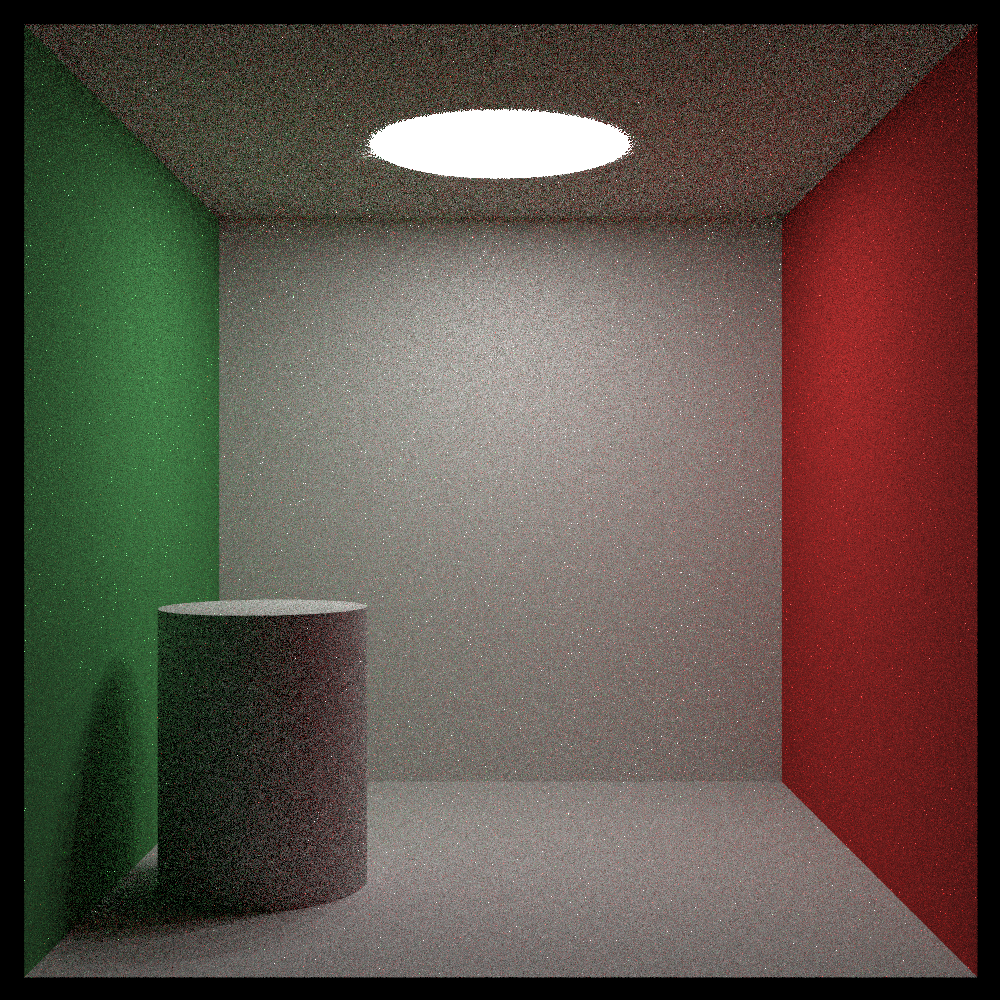
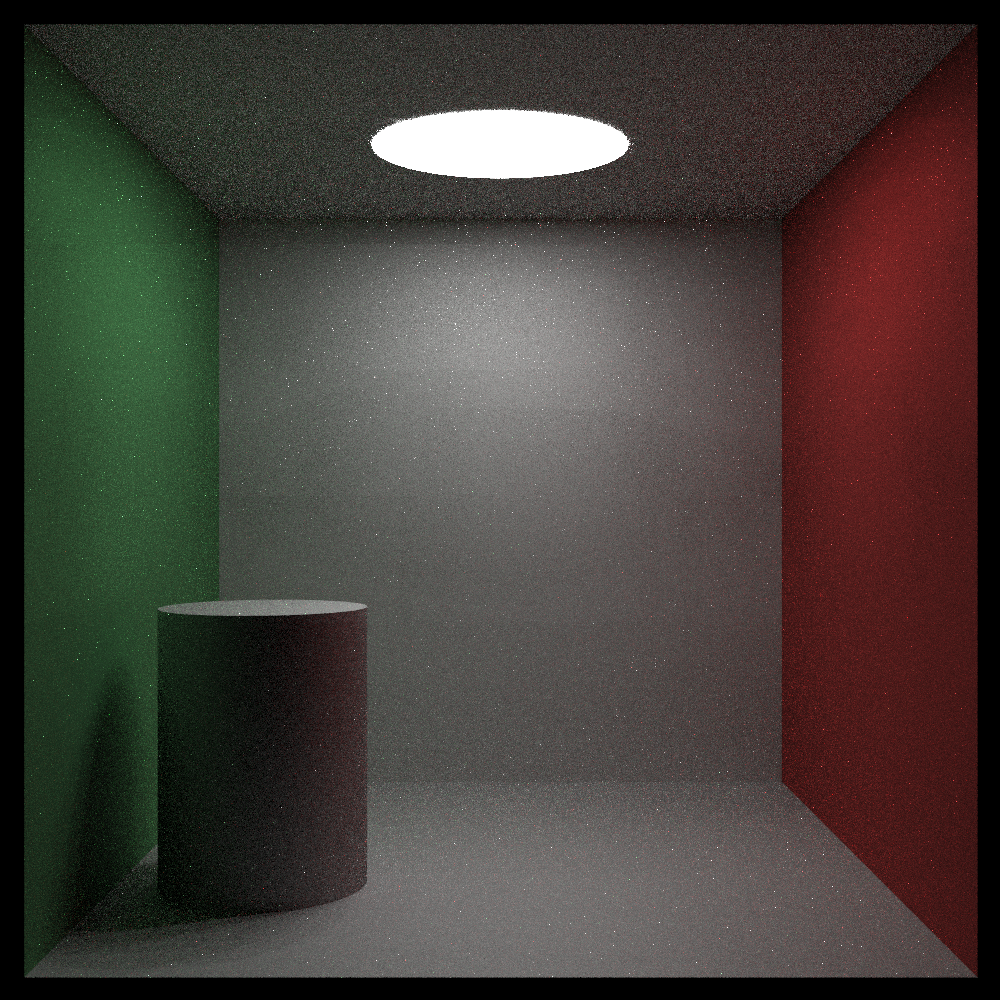
Finish:)

diff --git a/GraphicsRender/Scene.cpp b/GraphicsRender/Scene.cpp
@@ -11,7 +11,6 @@
 #include "GGX.h"
 #include "ConstantTexture.h"
 #include "ObjectPdf.h"
-#include "MixturePdf.h"
 #include "GGXPdf.h"
 #include "Triangle.h"
 #include "TriPyramid.h"
@@ -38,7 +37,8 @@ void Scene::build() {
 	}
 	buildCornellBox();
 	//buildSampler();
-	//buildSampleLight();
+	//buildPolygonLight();
+	//buildMIS();
 }
 
 void Scene::render() {
@@ -208,7 +208,7 @@ void Scene::buildSampler() {
 	camera = new Camera(Vector3f(278, 278, -800), Vector3f(278, 278, 0), Vector3f(0, 1, 0), 40.0f, float(width) / float(height));
 }
 
-void Scene::buildSampleLight() {
+void Scene::buildMIS() {
 	Material* mLight1 = new DiffuseLight(new ConstantTexture(Vector3f(1, 0, 0)));
 	Material* mLight2 = new DiffuseLight(new ConstantTexture(Vector3f(0, 1, 0)));
 	Material* mLight3 = new DiffuseLight(new ConstantTexture(Vector3f(0, 0, 1)));
@@ -243,6 +243,29 @@ void Scene::buildSampleLight() {
 	camera = new Camera(Vector3f(0, 2.5f, 12), Vector3f(0, 0, 0), Vector3f(0, 1, 0), 90.0f, float(width) / float(height));
 }
 
+void Scene::buildPolygonLight() {
+	Material* mLight = new DiffuseLight(new ConstantTexture(Vector3f(1, 1, 1)));
+	Material* white = new GGX(new ConstantTexture(Vector3f(1, 1, 1)), Vector3f(0, 0, 0), 0.6f, 0.2f);
+	Material* gold = new GGX(new ConstantTexture(Vector3f(1, 0.86f, 0.57f)), Vector3f(1.0f, 0.71f, 0.29f), 0.8f, 0.1f);
+	materials.push_back(mLight);
+	materials.push_back(white);
+	materials.push_back(gold);
+
+	//light.add(new FlipNormalObject(new MeshTriangle("square.obj", Vector3f(0, 2.5f, 0), Vector3f(1, 1, 1), mLight)));
+	//world.add(new FlipNormalObject(new MeshTriangle("square.obj", Vector3f(0, 2.5f, 0), Vector3f(1, 1, 1), mLight)));
+	//light.add(new FlipNormalObject(new MeshTriangle("pentagon.obj", Vector3f(0, 2.5f, 0), Vector3f(1, 1, 1), mLight)));
+	//world.add(new FlipNormalObject(new MeshTriangle("pentagon.obj", Vector3f(0, 2.5f, 0), Vector3f(1, 1, 1), mLight)));
+	light.add(new FlipNormalObject(new MeshTriangle("hexagon.obj", Vector3f(0, 2.5f, 0), Vector3f(1, 1, 1), mLight)));
+	world.add(new FlipNormalObject(new MeshTriangle("hexagon.obj", Vector3f(0, 2.5f, 0), Vector3f(1, 1, 1), mLight)));
+
+	world.add(new RectangleXZ(-100, 100, -100, 100, 0, white));
+	world.add(new Sphere(Vector3f(0.75f, 1, 0.5f), 1, gold));
+	world.add(new RectangleYZ(0, 2, -1, 2, -1.25f, white));
+
+	bvh = new BVHNode(world.getList(), world.size(), 0, 0);
+	camera = new Camera(Vector3f(0, 1.25f, 4), Vector3f(0, 1.25f, 0), Vector3f(0, 1, 0), 90.0f, float(width) / float(height));
+}
+
 void Scene::renderThread(Scene* scene, int y0, int y1) {
 	Sampler* samplerLight, * samplerDefault;
 	switch (scene->cLight) {
@@ -263,7 +286,6 @@ void Scene::renderThread(Scene* scene, int y0, int y1) {
 				float u = (float(j) + uv.x()) / float(scene->width);
 				float v = (float(i) + uv.y()) / float(scene->height);
 				Ray3f ray = scene->camera->getRay(u, v);
-				//col += scene->color(ray, 0, *samplerLight, *samplerDefault);
 				col += solveNaN(scene->color(ray, 0, *samplerLight, *samplerDefault));
 			}
 			col /= float(scene->spp);

diff --git a/GraphicsRender/Scene.h b/GraphicsRender/Scene.h
@@ -33,6 +33,7 @@ private:
 
 	void buildCornellBox();
 	void buildSampler();
-	void buildSampleLight();
+	void buildMIS();
+	void buildPolygonLight();
 	static void renderThread(Scene* scene, int y0, int y1);
 };

diff --git a/README.md b/README.md
@@ -32,6 +32,12 @@ Use different sampler in light sampling.
 
 ![](imgsrc/bluenoise.png)
 
+## Polygon Light
+
+|     Quadrilateral      |         Pentagon         |         Hexagon         |
+| :--------------------: | :----------------------: | :---------------------: |
+| ![](imgsrc/square.png) | ![](imgsrc/pentagon.png) | ![](imgsrc/hexagon.png) |
+
 ## Microfacet Model & Multiple importance sampling
 
 | $\alpha$ |       BRDF Sampling       |      Light Sampling       | Multiple importance sampling |
